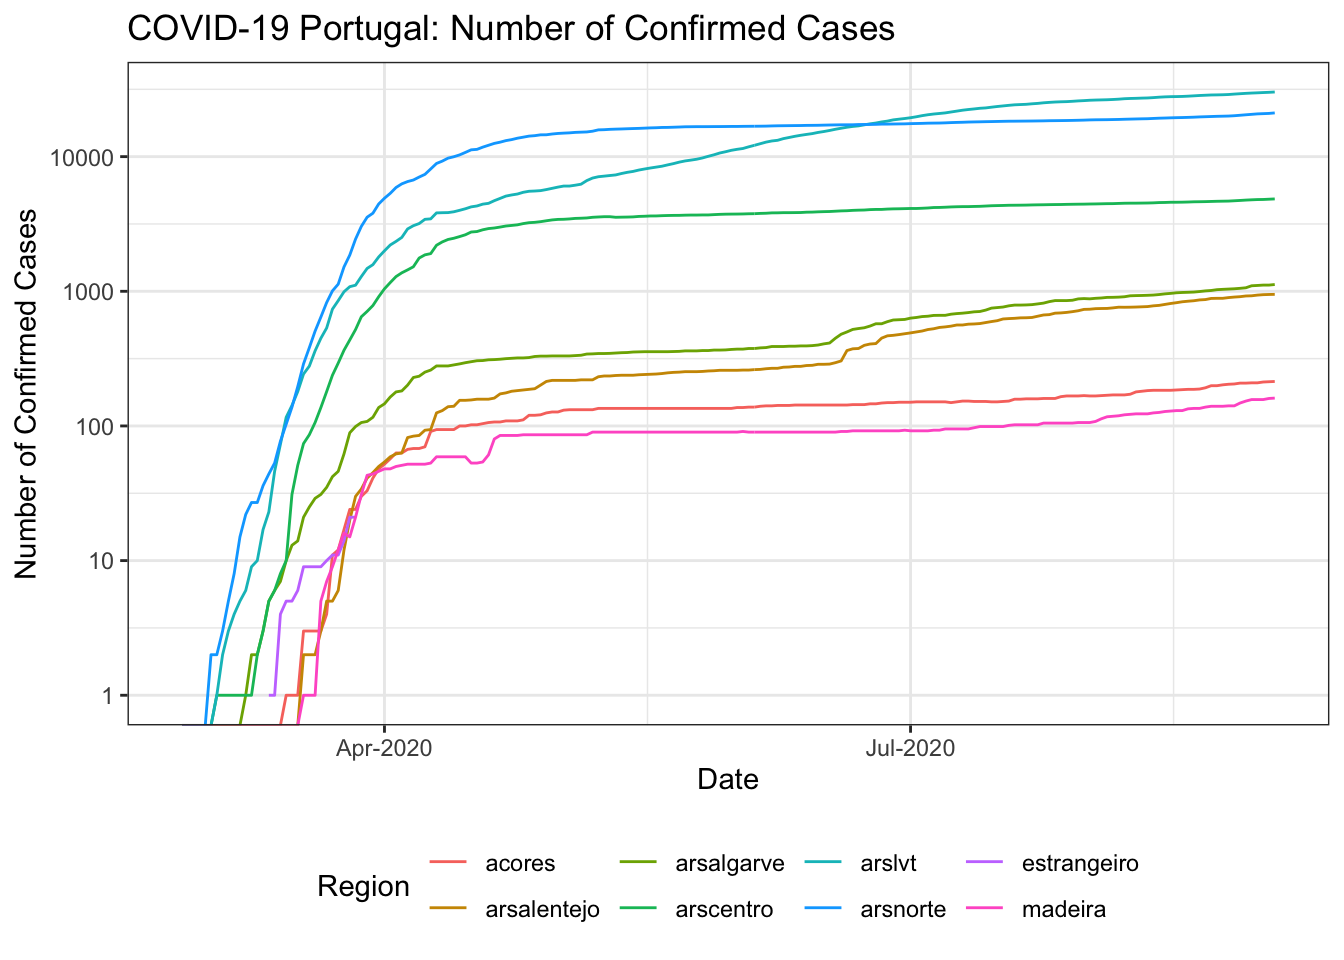
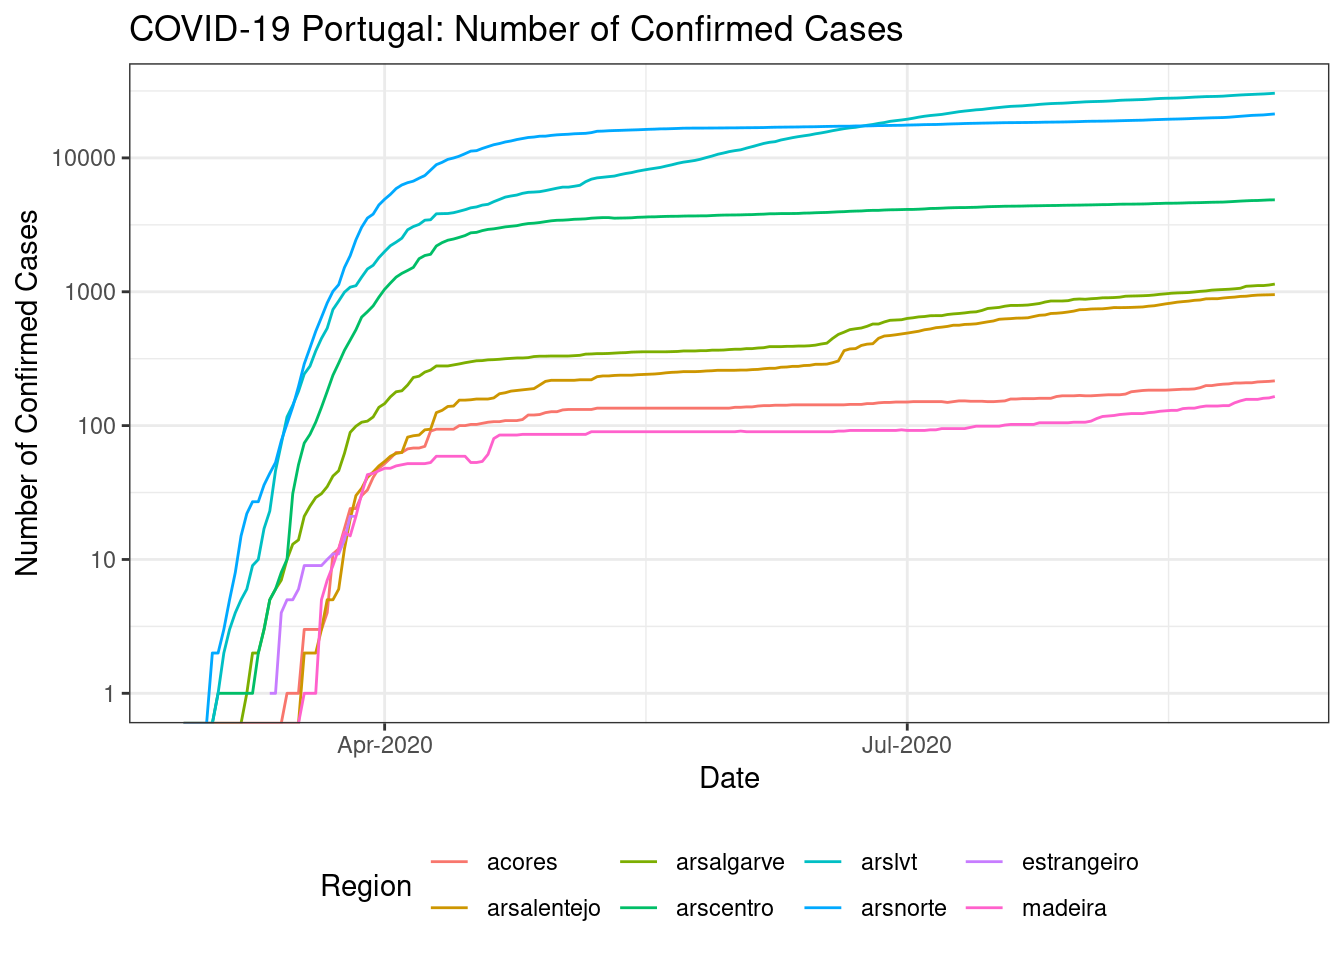
Updated data and 8 day summary table layout.

diff --git a/README.md b/README.md
@@ -4,9 +4,9 @@ README](https://github.com/CEAUL/Dados_COVID-19_PT/workflows/Render%20README/bad
 
 ## Daily Portuguese COVID-19 Data
 
-**Last updated: Thu 03 Sep 2020 (15:28:10 UTC \[+0000\])**
+**Last updated: Fri 04 Sep 2020 (13:31:42 WEST \[+0100\])**
 
-  - Data available from **26 Feb 2020** until **02 Sep 2020** (190
+  - Data available from **26 Feb 2020** until **03 Sep 2020** (191
     days).
 
 ### Download User Friendly Version
@@ -45,16 +45,18 @@ The original data were downloaded from an API provide by VOST
 
 ### Summary: Last 8 Days
 
-| data       | confirmados\_novos | confirmados | ativos | recuperados | obitos\_novos | obitos |
-| :--------- | -----------------: | ----------: | :----- | ----------: | ------------: | -----: |
-| 2020-08-26 |                362 |       56274 | 13283  |       41184 |             2 |   1807 |
-| 2020-08-27 |                397 |       56671 | 13507  |       41357 |             2 |   1809 |
-| 2020-08-28 |                403 |       57074 | 13703  |       41556 |             6 |   1815 |
-| 2020-08-29 |                374 |       57448 | 13864  |       41766 |             3 |   1818 |
-| 2020-08-30 |                320 |       57768 | 14064  |       41885 |             1 |   1819 |
-| 2020-08-31 |                244 |       58012 | 14229  |       41961 |             3 |   1822 |
-| 2020-09-01 |                231 |       58243 | 14315  |       42104 |             2 |   1824 |
-| 2020-09-02 |                390 |       58633 | 14573  |       42233 |             3 |   1827 |
+|            Date | New\_Cases | Total\_Cases |       Active |    Recovered |    Deaths |
+| --------------: | ---------: | -----------: | -----------: | -----------: | --------: |
+| Thu 27 Aug 2020 |      \+397 |        56671 | 13507 (+224) | 41357 (+173) | 1809 (+2) |
+| Fri 28 Aug 2020 |      \+403 |        57074 | 13703 (+196) | 41556 (+199) | 1815 (+6) |
+| Sat 29 Aug 2020 |      \+374 |        57448 | 13864 (+161) | 41766 (+210) | 1818 (+3) |
+| Sun 30 Aug 2020 |      \+320 |        57768 | 14064 (+200) | 41885 (+119) | 1819 (+1) |
+| Mon 31 Aug 2020 |      \+244 |        58012 | 14229 (+165) |  41961 (+76) | 1822 (+3) |
+| Tue 01 Sep 2020 |      \+231 |        58243 |  14315 (+86) | 42104 (+143) | 1824 (+2) |
+| Wed 02 Sep 2020 |      \+390 |        58633 | 14573 (+258) | 42233 (+129) | 1827 (+3) |
+| Thu 03 Sep 2020 |      \+418 |        59051 | 14795 (+222) | 42427 (+194) | 1829 (+2) |
+
+Change from previous day in brackets.
 
 ## Example Usage
 
@@ -75,19 +77,19 @@ CV <- fread(here("data", "covid19pt_DSSG_Long.csv"))
 # Looking at the data:
 tail(CV)
 ##          data   origVars   origType other symptoms sex ageGrpLower ageGrpUpper
-## 1: 2020-08-28 vigilancia vigilancia                All                        
-## 2: 2020-08-29 vigilancia vigilancia                All                        
-## 3: 2020-08-30 vigilancia vigilancia                All                        
-## 4: 2020-08-31 vigilancia vigilancia                All                        
-## 5: 2020-09-01 vigilancia vigilancia                All                        
-## 6: 2020-09-02 vigilancia vigilancia                All                        
+## 1: 2020-08-29 vigilancia vigilancia                All                        
+## 2: 2020-08-30 vigilancia vigilancia                All                        
+## 3: 2020-08-31 vigilancia vigilancia                All                        
+## 4: 2020-09-01 vigilancia vigilancia                All                        
+## 5: 2020-09-02 vigilancia vigilancia                All                        
+## 6: 2020-09-03 vigilancia vigilancia                All                        
 ##    ageGrp   region value valueUnits
-## 1:        Portugal 33930      Count
-## 2:        Portugal 33965      Count
-## 3:        Portugal 34258      Count
-## 4:        Portugal 34196      Count
-## 5:        Portugal 33998      Count
-## 6:        Portugal 33914      Count
+## 1:        Portugal 33965      Count
+## 2:        Portugal 34258      Count
+## 3:        Portugal 34196      Count
+## 4:        Portugal 33998      Count
+## 5:        Portugal 33914      Count
+## 6:        Portugal 34197      Count
 
 # Order data by original variable name and date.
 setkeyv(CV, c("origVars", "data"))
@@ -137,7 +139,7 @@ CV[origType=="confirmados" & ageGrp=="" & region!="Portugal"] %>%
     y = "Number of Confirmed Cases",
     colour = "Region")
 ## Warning: Transformation introduced infinite values in continuous y-axis
-## Warning: Removed 174 row(s) containing missing values (geom_path).
+## Warning: Removed 175 row(s) containing missing values (geom_path).
 ```
 
 <img src="README_figs/README-casesbyRegion-1.png" width="672" />
